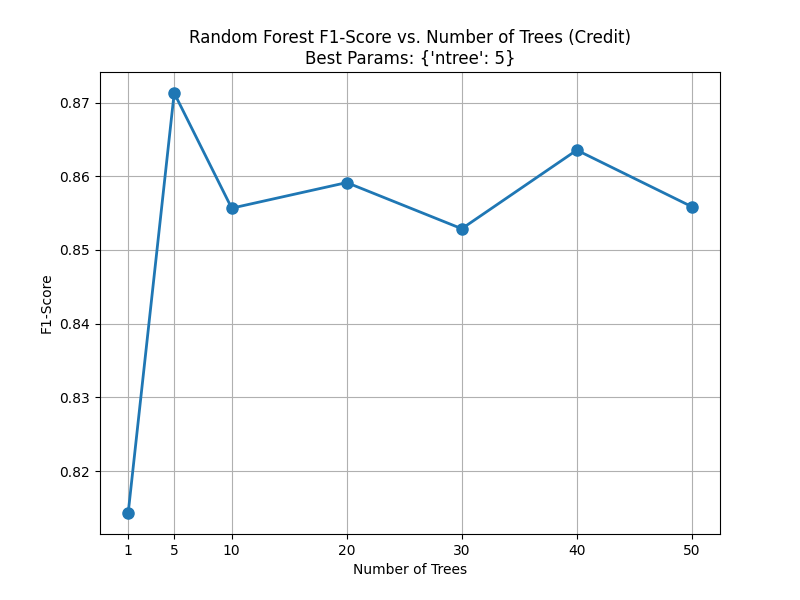
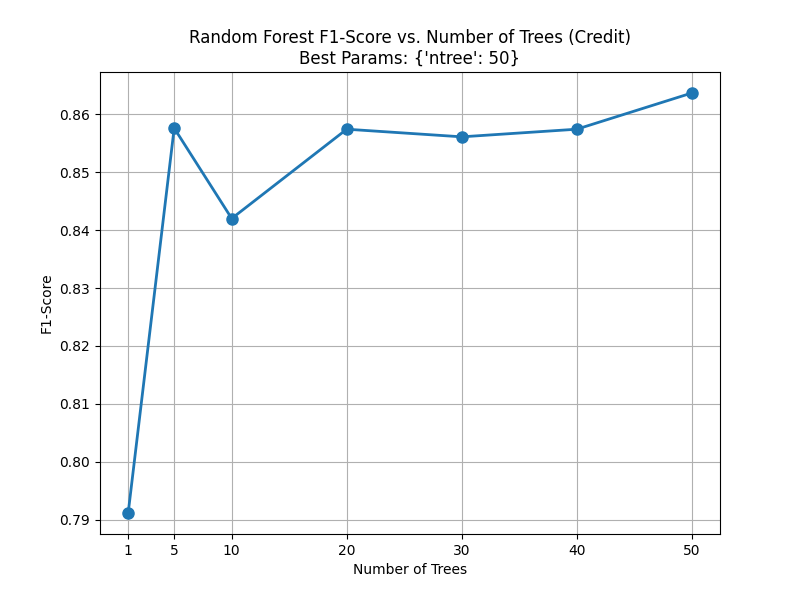
Adding all graphs

diff --git a/experiments/run_parkinsons.py b/experiments/run_parkinsons.py
@@ -5,6 +5,7 @@ from utils.data_loader import load_tabular_dataset
 from utils.evaluation import grid_search_cv
 from models.neural_network import NeuralNetwork
 from models.knn import KNN
+from models.random_forest import RandomForest
 
 def run_parkinsons_experiments():
     print("Loading Parkinson's Dataset...")
@@ -12,6 +13,36 @@ def run_parkinsons_experiments():
     X, y = load_tabular_dataset('datasets/parkinsons.csv', target_column='Diagnosis')
 
     os.makedirs('latex_source', exist_ok=True)
+
+    # RANDOM FOREST ALGORITHM
+    print("\nRunning Random Forest")
+    rf_param_grid = {
+        'ntree': [1, 5, 10, 20, 30, 40, 50],
+    }
+
+    rf_best_params, rf_results = grid_search_cv(RandomForest, X, y, rf_param_grid, k=10)
+
+    print("\nRandom Forest Full Results")
+    for res in rf_results:
+        print(f"Params: {res['params']} | Accuracy: {res['accuracy']:.4f} | F1-Score: {res['f1']:.4f}")
+
+    ntree_vals = []
+    rf_f1_vals = []
+
+    # Collect results for plotting
+    for res in rf_results:
+        ntree_vals.append(res['params']['ntree'])
+        rf_f1_vals.append(res['f1'])
+
+    plt.figure(figsize=(8, 6))
+    plt.plot(ntree_vals, rf_f1_vals, marker='o', linestyle='-', linewidth=2, markersize=8)
+    plt.title(f"Random Forest F1-Score vs. Number of Trees (Parkinson's)\nBest Params: {rf_best_params}")
+    plt.xlabel("Number of Trees")
+    plt.ylabel("F1-Score")
+    plt.grid(True)
+    plt.xticks(ntree_vals)
+    plt.savefig('latex_source/rf_parkinsons_f1_curve.png')
+    plt.show()
 
     print("\nRunning Neural Network")
     nn_param_grid = {

diff --git a/experiments/run_rice.py b/experiments/run_rice.py
@@ -5,12 +5,43 @@ from utils.data_loader import load_tabular_dataset
 from utils.evaluation import grid_search_cv
 from models.knn import KNN
 from models.decision_tree import DecisionTreeClassifier
+from models.random_forest import RandomForest
 
 def run_rice_experiments():
     print("Loading Rice Dataset...")
     X, y = load_tabular_dataset('datasets/rice.csv', target_column='label')
 
     os.makedirs('latex_source', exist_ok=True)
+
+    # RANDOM FOREST ALGORITHM
+    print("\nRunning Random Forest")
+    rf_param_grid = {
+        'ntree': [1, 5, 10, 20, 30, 40, 50],
+    }
+
+    rf_best_params, rf_results = grid_search_cv(RandomForest, X, y, rf_param_grid, k=10)
+
+    print("\nRandom Forest Full Results")
+    for res in rf_results:
+        print(f"Params: {res['params']} | Accuracy: {res['accuracy']:.4f} | F1-Score: {res['f1']:.4f}")
+
+    ntree_vals = []
+    rf_f1_vals = []
+
+    # Collect results for plotting
+    for res in rf_results:
+        ntree_vals.append(res['params']['ntree'])
+        rf_f1_vals.append(res['f1'])
+
+    plt.figure(figsize=(8, 6))
+    plt.plot(ntree_vals, rf_f1_vals, marker='o', linestyle='-', linewidth=2, markersize=8)
+    plt.title(f"Random Forest F1-Score vs. Number of Trees (Rice)\nBest Params: {rf_best_params}")
+    plt.xlabel("Number of Trees")
+    plt.ylabel("F1-Score")
+    plt.grid(True)
+    plt.xticks(ntree_vals)
+    plt.savefig('latex_source/rf_rice_f1_curve.png')
+    plt.show()
 
     print("\nRunning K-Nearest Neighbors")
     knn_param_grid = {
